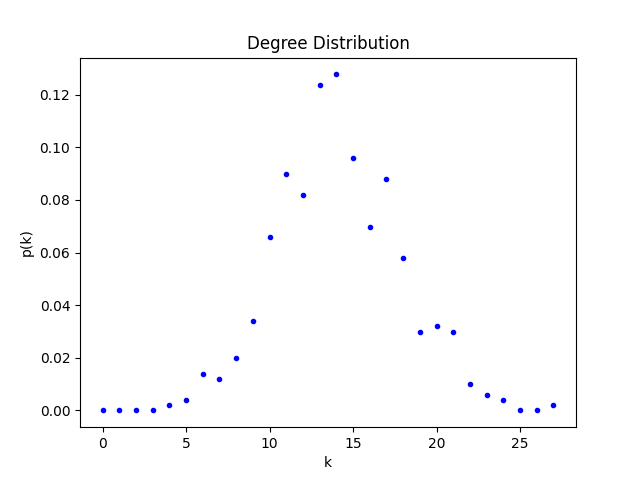
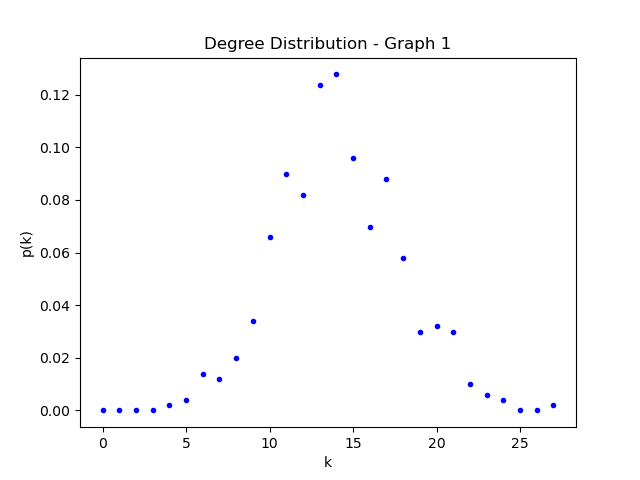
merge the two repetitive deg dist functions into one

diff --git a/Labemi.py b/Labemi.py
@@ -23,29 +23,42 @@ print(G2)
 # Posted by Amit Mek, modified by community. See post 'Timeline' for change history
 # Retrieved 2026-03-31, License - CC BY-SA 4.0
 
-def plot_degree_dist_G1(G):
-    degree_hist = nx.degree_histogram(G) 
+def plot_degree_dist(G, title='Degree Distribution', log_scale=False):
+    degree_hist = nx.degree_histogram(G)
     degree_hist = np.array(degree_hist, dtype=float)
-    degree_prob = degree_hist/G.number_of_nodes()
-    plt.plot(np.arange(degree_prob.shape[0]),degree_prob,'b.')
+    degree_prob = degree_hist / G.number_of_nodes()
+    
+    plt.figure()
+    if log_scale:
+        plt.loglog(np.arange(degree_prob.shape[0]), degree_prob, 'b.')
+    else:
+        plt.plot(np.arange(degree_prob.shape[0]), degree_prob, 'b.')
     plt.xlabel('k')
     plt.ylabel('p(k)')
-    plt.title('Degree Distribution')
+    plt.title(title)
 
-def plot_degree_dist_G2(G):
-    degree_hist = nx.degree_histogram(G) 
-    degree_hist = np.array(degree_hist, dtype=float)
-    degree_prob = degree_hist/G.number_of_nodes()
-    plt.loglog(np.arange(degree_prob.shape[0]),degree_prob,'b.')
-    plt.xlabel('k')
-    plt.ylabel('p(k)')
-    plt.title('Degree Distribution')
-
-plot_degree_dist_G1(G1)
+plot_degree_dist(G1, title='Degree Distribution - Graph 1')
 plt.savefig('DegDistG1.png')
 plt.show()
-plot_degree_dist_G2(G2)
+plot_degree_dist(G2, title='Degree Distribution - Graph 2', log_scale=True)
 plt.savefig('DegDistG2.png')
+plt.show()
+
+
+def er_predictions(G):
+    n = G.number_of_nodes()
+    m = G.number_of_edges()
+    p = m / (n * (n - 1) / 2)   # estimated edge probability
+    avg_k = p * (n - 1)          # ER predicted average degree
+    std_k = np.sqrt(p * (1 - p) * (n - 1))  # ER predicted std
+    max_k = avg_k + 4 * std_k    # rough estimate of max (~4 sigma)
+    print(f"ER predictions for n={n}, p={p:.4f}:")
+    print(f"  Predicted avg degree: {avg_k:.2f}")
+    print(f"  Predicted std: {std_k:.2f}")
+    print(f"  Rough predicted max degree: {max_k:.2f}")
+
+er_predictions(G1)
+er_predictions(G2)
 
 # Average degree of an undirected graph k = 2*number of edges/number of nodes
 def average_deg(graph):
